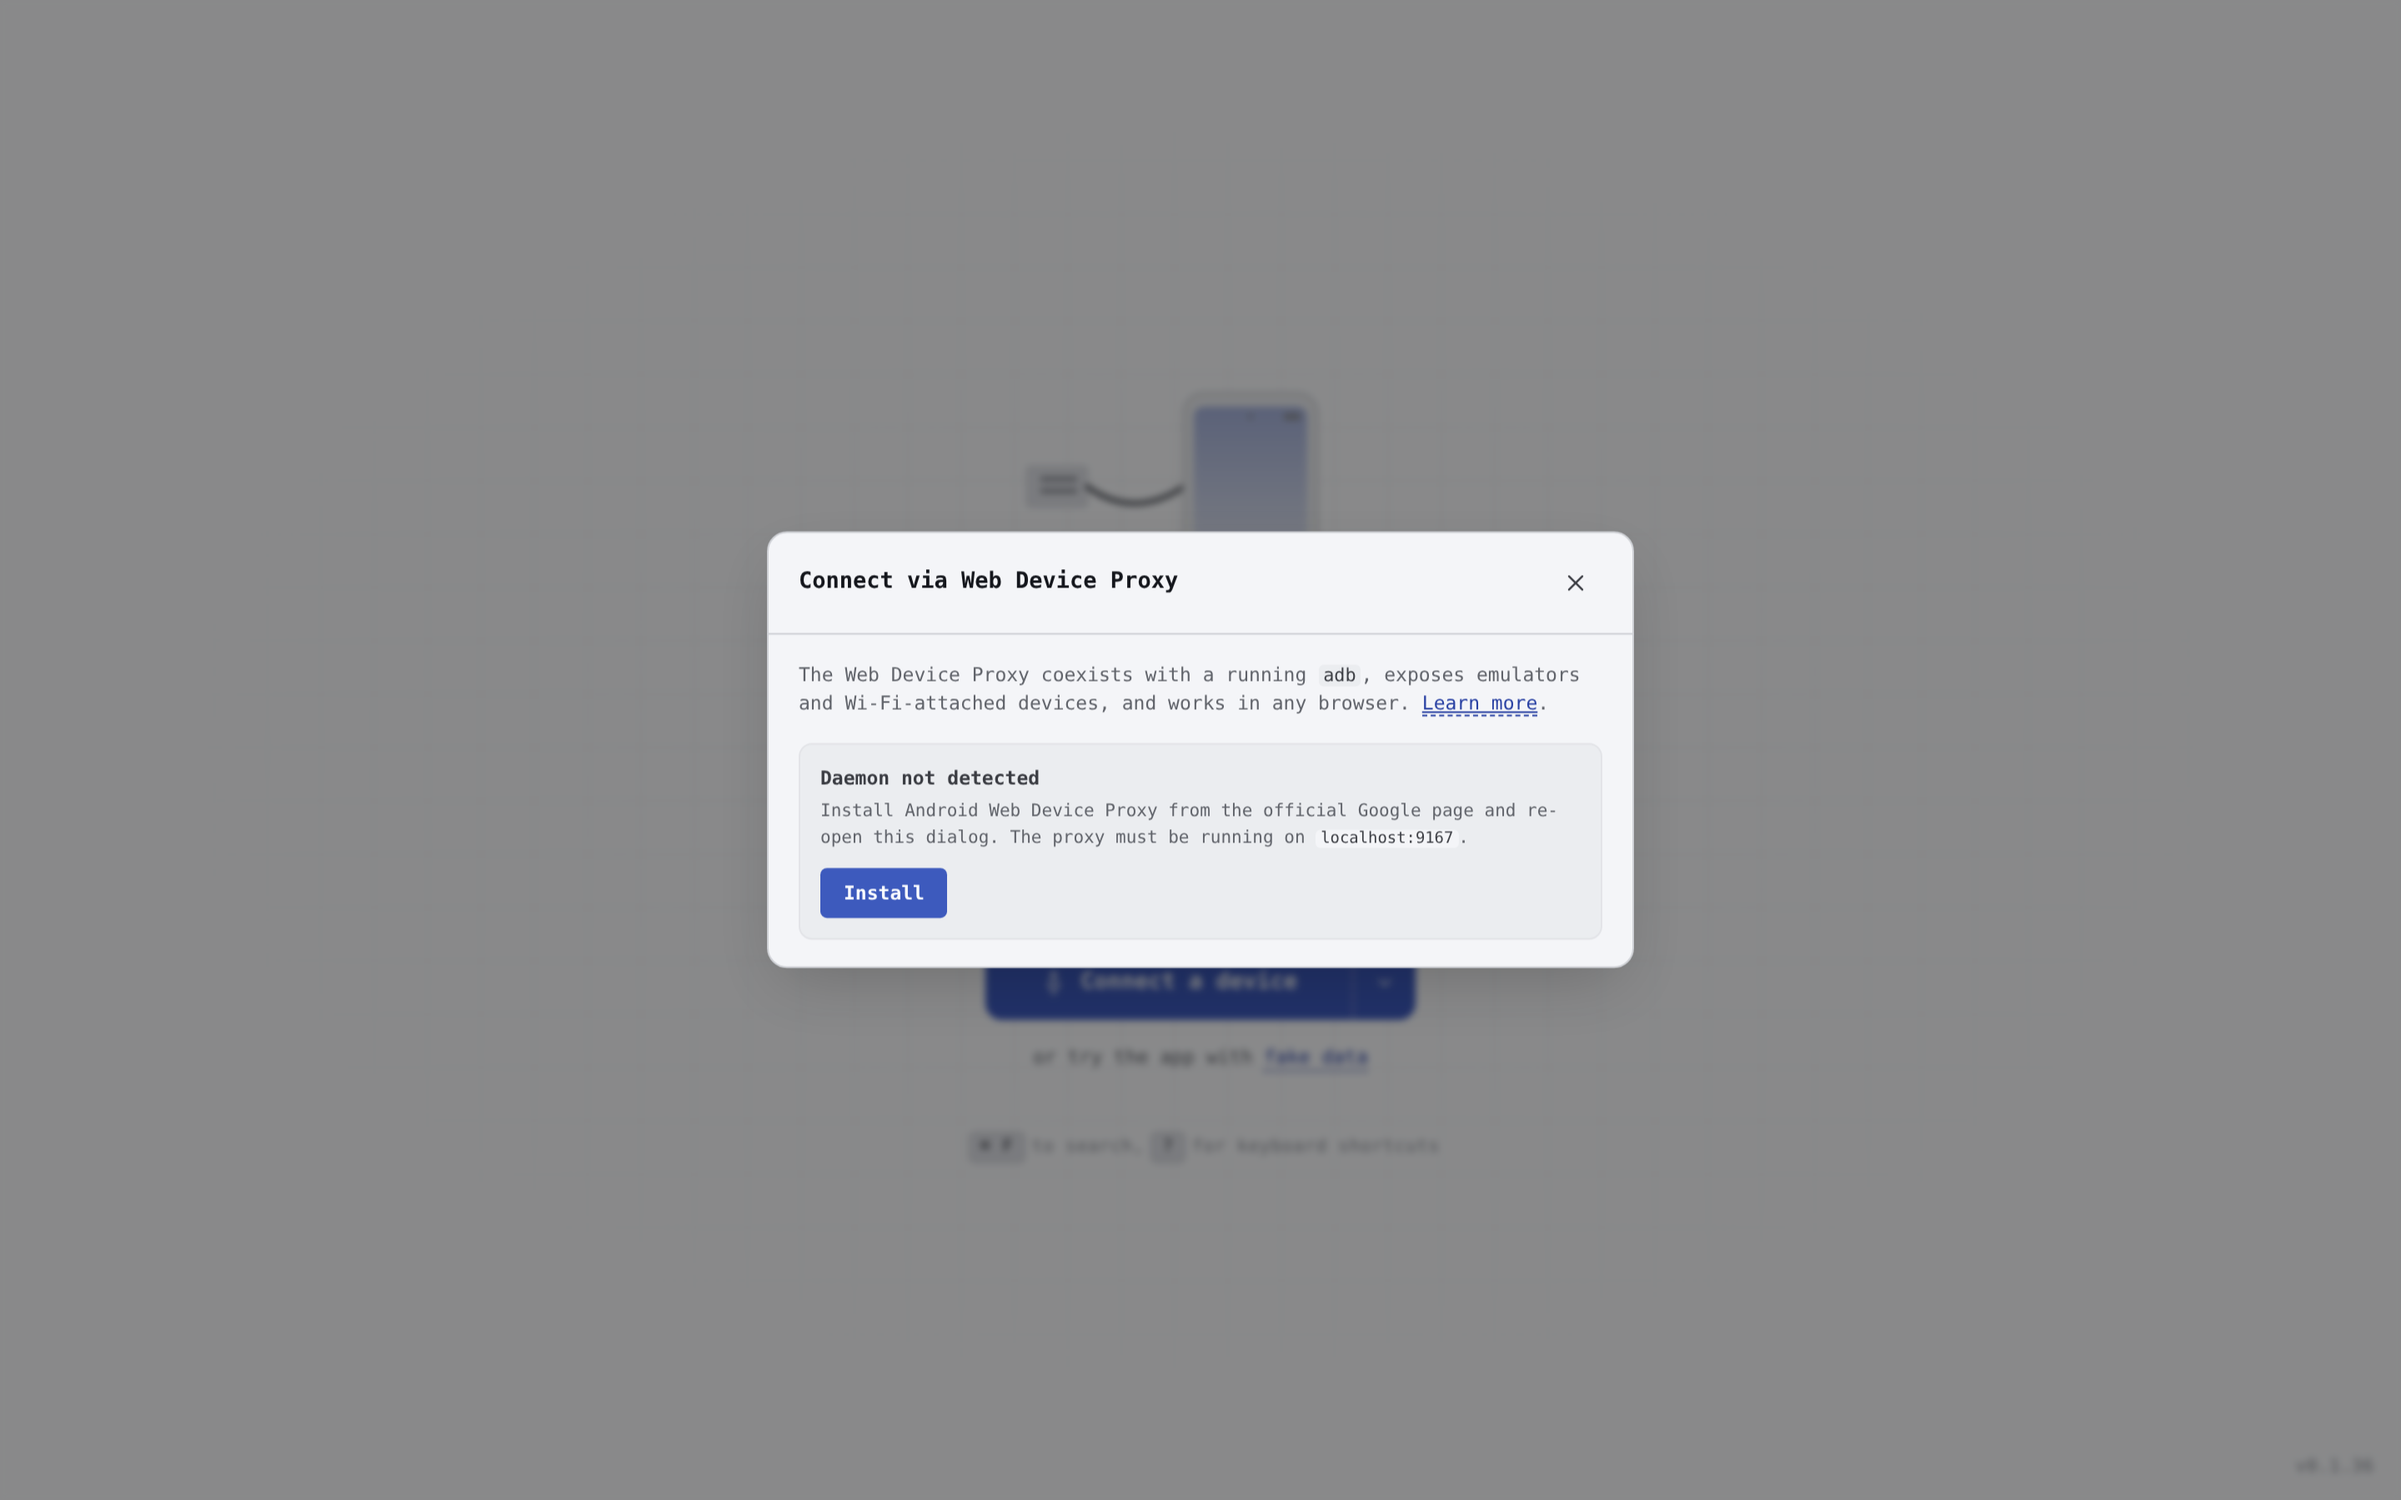
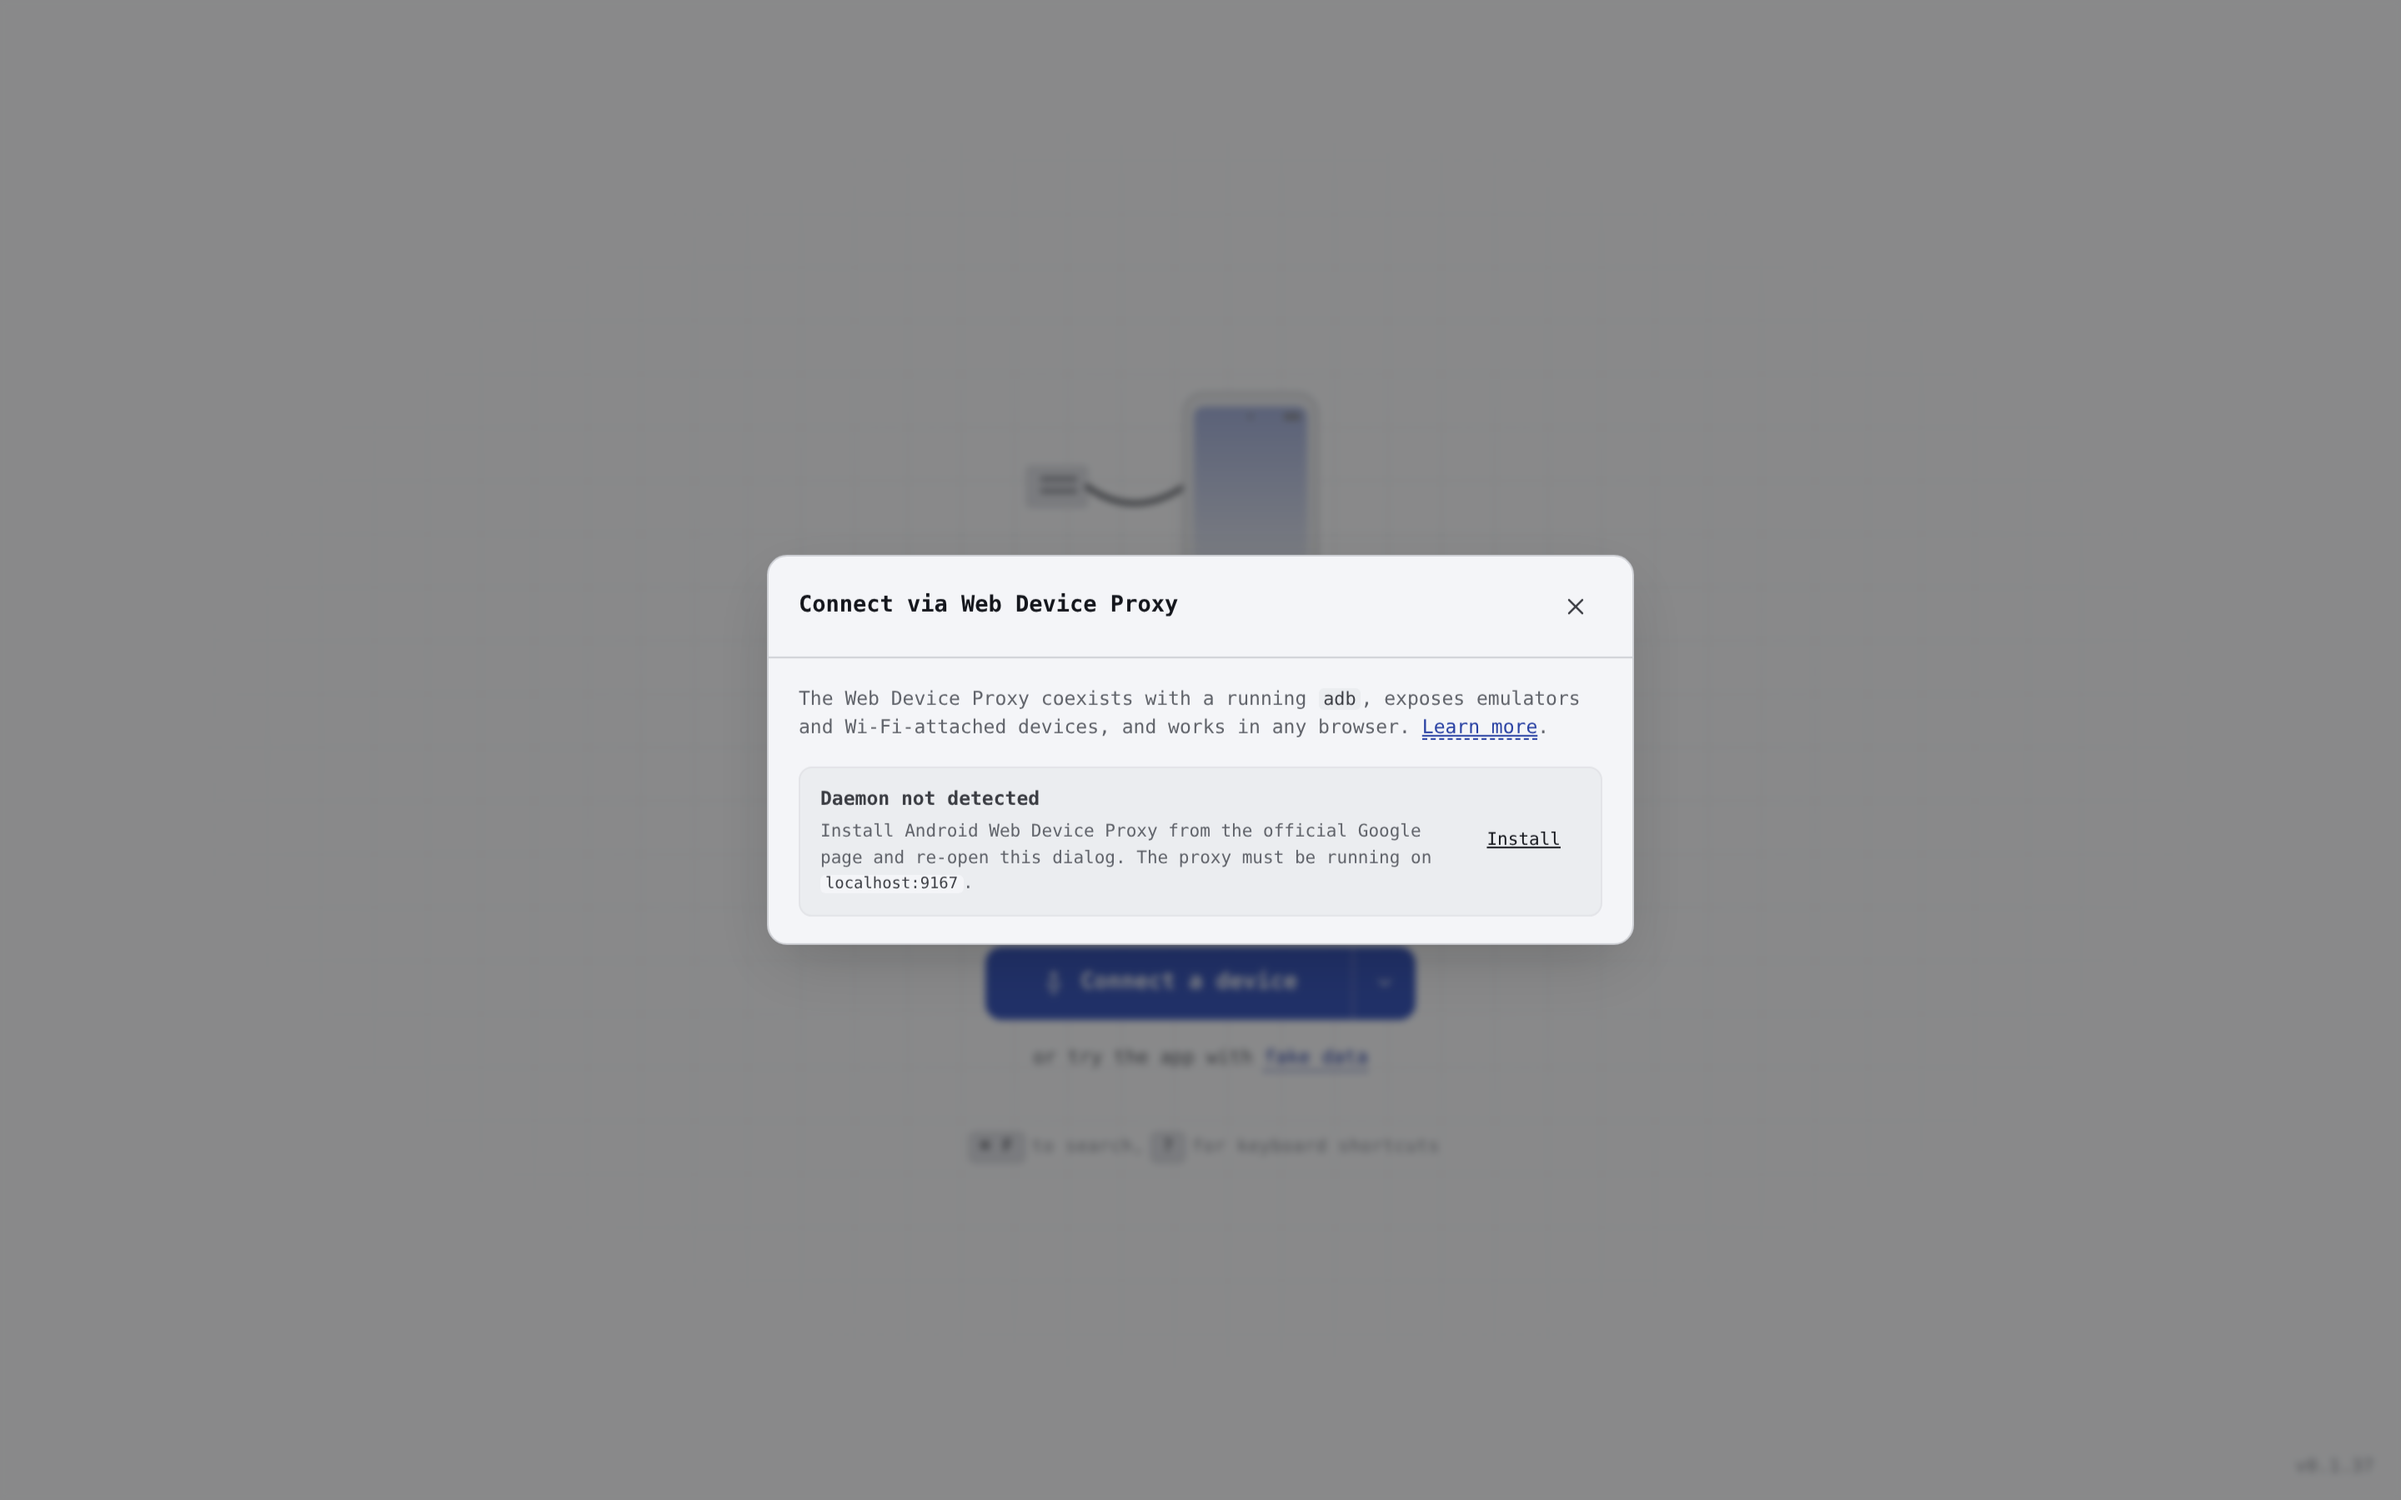
WDP polish: Install button layout, toast centering, model lookup, error hint, picker cleanup (#111)
Five tweaks from the latest UX pass:

1. **Install button shares the Connect/Authorize row layout.** The
   "Daemon not detected" card is now a flex row — message on the left,
   Install button on the right — instead of stacking the button under
   the prose. The button reuses `.btn.wdp-device-connect` so it matches
   the device rows' size and weight.

2. **Toast horizontal centering fix.** The shared `slideUp` keyframe
   animates `transform: translateY(...)`, which was clobbering the
   `translateX(-50%)` centering on `.toast` and offsetting the bubble
   to the right of centre. Replaced with a dedicated `toastIn` keyframe
   that combines both translations.

3. **Device model resolves over the proxy.** WDP's `/track-devices-json`
   snapshot doesn't always include `ro.product.model` in `adbProps`, so
   the topbar was falling through to the bare serial. `connectViaWdp`
   now calls `safeGetProp(adb, 'ro.product.model')` as a fallback,
   parallelised with the existing `ro.build.version.release` getprop.

4. **`friendlyConnectError` hints at `adb kill-server`.** The
   "device in use" branch now mentions `adb kill-server` explicitly,
   and the matcher widens to cover the "device is already in use"
   wording WebUSB throws when the proxy daemon is holding the claim.

5. **"Pair new device" removed from the device picker.** It duplicated
   Disconnect's effect (the connect flow always opens the chooser
   again) and added noise. The unused `onPairNew` callback and prop
[…]

Changed region(s): [[0.3125, 0.4356, 0.6875, 0.6533], [0.3125, 0.3422, 0.6875, 0.4044]]

diff --git a/src/components/Dashboard.tsx b/src/components/Dashboard.tsx
@@ -23,7 +23,6 @@ export interface DashboardProps {
   setTweaks: (patch: Partial<Tweaks>) => void;
   onSwitchDevice: (d: DeviceInfo) => void;
   onDisconnect: () => void;
-  onPairNew: () => void;
 }
 
 export function Dashboard({
@@ -34,7 +33,6 @@ export function Dashboard({
   setTweaks,
   onSwitchDevice,
   onDisconnect,
-  onPairNew,
 }: DashboardProps) {
   const [paletteOpen, setPaletteOpen] = useState(false);
   const [globalSettingsOpen, setGlobalSettingsOpen] = useState(false);
@@ -90,7 +88,6 @@ export function Dashboard({
         setTweaks={setTweaks}
         onSwitchDevice={onSwitchDevice}
         onDisconnect={onDisconnect}
-        onPairNew={onPairNew}
         onAddWidget={() => setPaletteOpen(true)}
         onClearLayout={() => setClearSignal((n) => n + 1)}
         onOpenGlobalSettings={() => setGlobalSettingsOpen(true)}
@@ -134,7 +131,6 @@ interface DashTopbarProps {
   setTweaks: (patch: Partial<Tweaks>) => void;
   onSwitchDevice: (d: DeviceInfo) => void;
   onDisconnect: () => void;
-  onPairNew: () => void;
   onAddWidget: () => void;
   onClearLayout: () => void;
   onOpenGlobalSettings: () => void;
@@ -148,7 +144,6 @@ function DashTopbar({
   setTweaks,
   onSwitchDevice,
   onDisconnect,
-  onPairNew,
   onAddWidget,
   onClearLayout,
   onOpenGlobalSettings,
@@ -237,14 +232,6 @@ function DashTopbar({
                 </button>
               ))}
               <div className="dash-device-pop-foot">
-                <button
-                  onClick={() => {
-                    onPairNew();
-                    setDevOpen(false);
-                  }}
-                >
-                  <Icons.Plus size={11} /> Pair new device…
-                </button>
                 <button
                   onClick={() => {
                     onDisconnect();

diff --git a/src/lib/wdp/connect.ts b/src/lib/wdp/connect.ts
@@ -50,16 +50,20 @@ export async function connectViaWdp(opts: WdpConnectOptions): Promise<{
   const adb = new Adb(transport);
   opts.onPhase?.('connected');
 
+  // Prefer the snapshot's adbProps where present (zero round-trips),
+  // fall back to `getprop` over the proxy. WDP doesn't reliably ship
+  // `ro.product.model` in adbProps on all daemon versions, so without
+  // this fallback the topbar would show the serial.
   const adbProps = opts.device.proxyStatus === 'ADB' ? opts.device.adbProps : undefined;
+  const [modelProp, androidVersion] = await Promise.all([
+    adbProps?.['ro.product.model'] ?? safeGetProp(adb, 'ro.product.model'),
+    adbProps?.['ro.build.version.release'] ?? safeGetProp(adb, 'ro.build.version.release'),
+  ]);
   const model =
-    adb.banner.model ??
-    adbProps?.['ro.product.model'] ??
-    adbProps?.['ro.product.name'] ??
+    (modelProp && modelProp !== 'unknown' && modelProp) ||
+    adb.banner.model ||
+    adbProps?.['ro.product.name'] ||
     opts.device.serialNumber;
-
-  const androidVersion =
-    adbProps?.['ro.build.version.release'] ??
-    (await safeGetProp(adb, 'ro.build.version.release'));
 
   const device: DeviceInfo = {
     serial: opts.device.serialNumber,

diff --git a/src/components/WdpDialog.tsx b/src/components/WdpDialog.tsx
@@ -187,13 +187,15 @@ export function WdpDialog({ open, onConnect, onClose, busy }: WdpDialogProps) {
 
           {state.kind === 'not-installed' && (
             <div className="wdp-dialog-empty" role="note">
-              <div className="wdp-dialog-empty-title">Daemon not detected</div>
-              <p>
-                Install Android Web Device Proxy from the official Google page and re-open this
-                dialog. The proxy must be running on <code>localhost:9167</code>.
-              </p>
+              <div className="wdp-dialog-empty-meta">
+                <div className="wdp-dialog-empty-title">Daemon not detected</div>
+                <p>
+                  Install Android Web Device Proxy from the official Google page and re-open this
+                  dialog. The proxy must be running on <code>localhost:9167</code>.
+                </p>
+              </div>
               <a
-                className="btn primary wdp-dialog-install"
+                className="btn wdp-device-connect"
                 href={WDP_DOWNLOAD_URL}
                 target="_blank"
                 rel="noreferrer"

diff --git a/src/lib/adb.ts b/src/lib/adb.ts
@@ -188,9 +188,11 @@ export function friendlyConnectError(err: unknown): string {
   if (/disconnected/i.test(raw)) {
     return 'Device disconnected. Replug the cable and try again.';
   }
-  if (/claim.*interface|protected interface/i.test(raw)) {
+  if (/claim.*interface|protected interface|already in use|device.*in use/i.test(raw)) {
     return (
-      "Couldn't claim the USB interface — another app or the OS is holding it. On macOS / Linux make sure no other adb / Android Studio is running; on Windows replace the WinUSB driver if needed."
+      "Couldn't claim the USB interface — something else is already holding the device. " +
+      'If you have `adb` running (Android Studio, scrcpy, the Web Device Proxy daemon, …) try ' +
+      '`adb kill-server` and reconnect. On Windows replace the WinUSB driver if needed.'
     );
   }
   if (/WebUSB is not available/i.test(raw)) return raw; // already friendly

diff --git a/src/styles/components.css b/src/styles/components.css
@@ -309,11 +309,20 @@
 }
 .wdp-dialog-empty {
   display: flex;
-  flex-direction: column;
-  padding: 12px;
+  align-items: center;
+  gap: 12px;
+  padding: 10px 12px;
   background: var(--bg-2);
   border: 1px solid var(--line-soft);
   border-radius: var(--r-md);
+}
+.wdp-dialog-empty-meta {
+  flex: 1 1 0;
+  min-width: 0;
+}
+.wdp-dialog-install {
+  /* Anchor styled as a button — neutralise default underline + spacing. */
+  text-decoration: none;
 }
 .wdp-dialog-empty-title {
   font-size: var(--t-sm);
@@ -327,15 +336,6 @@
   font-size: var(--t-xs);
   color: var(--fg-2);
   line-height: 1.5;
-}
-.wdp-dialog-install {
-  align-self: flex-start;
-  margin-top: 10px;
-  height: 30px;
-  padding: 0 14px;
-  font-size: var(--t-sm);
-  border-radius: var(--r-sm);
-  text-decoration: none;
 }
 .wdp-dialog-empty code,
 .wdp-dialog-approve code {

diff --git a/src/styles/app.css b/src/styles/app.css
@@ -451,7 +451,10 @@
   position: fixed;
   bottom: 32px;
   left: 50%;
-  transform: translateX(-50%);
+  /* Dedicated keyframe instead of the shared `slideUp` — the latter
+     animates `transform: translateY(...)`, which clobbers the
+     `translateX(-50%)` centering and pushes the toast off-axis. */
+  transform: translate(-50%, 0);
   background: var(--bg-3);
   color: var(--fg-0);
   padding: 10px 16px;
@@ -459,6 +462,10 @@
   font-size: var(--t-sm);
   box-shadow: var(--shadow-2);
   z-index: 200;
-  animation: slideUp 240ms var(--ease-spring) both;
+  animation: toastIn 240ms var(--ease-spring) both;
   border: 1px solid var(--line);
+}
+@keyframes toastIn {
+  from { opacity: 0; transform: translate(-50%, 8px); }
+  to { opacity: 1; transform: translate(-50%, 0); }
 }

diff --git a/src/components/App.tsx b/src/components/App.tsx
@@ -209,15 +209,6 @@ export function App() {
     hubRef.current.reset([]);
   }, [resetIngest]);
 
-  const onPairNew = useCallback(async () => {
-    onDisconnect();
-    try {
-      await connectReal();
-    } catch {
-      // already toasted by connectReal
-    }
-  }, [onDisconnect, connectReal]);
-
   const switchDevice = useCallback(
     (d: DeviceInfo) => {
       // Switching to the demo device runs through `connectFake` so the
@@ -290,7 +281,6 @@ export function App() {
             setTweaks={setTweaks}
             onSwitchDevice={switchDevice}
             onDisconnect={onDisconnect}
-            onPairNew={onPairNew}
           />
           <HelpDialog open={helpOpen} onClose={() => setHelpOpen(false)} />
           {usingFake && (
